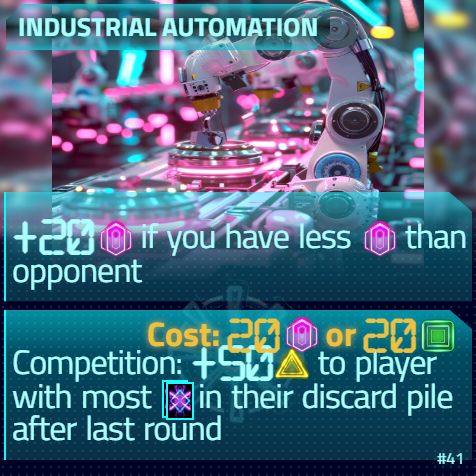
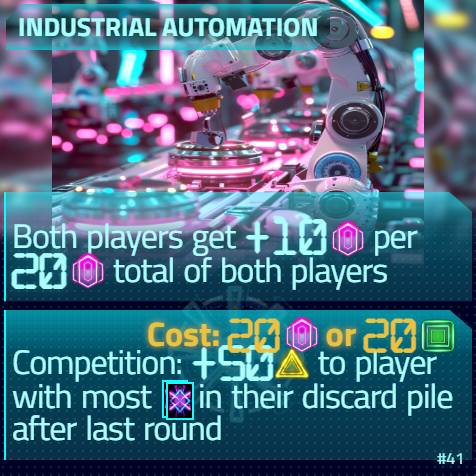
better seperation between free and cost action on each card, data/processing, early/late etc

Changed region(s): [[0.0, 0.4412, 1.0, 0.6176]]

diff --git a/src/components/SingularityCards2.js b/src/components/SingularityCards2.js
@@ -338,7 +338,7 @@ const initialCards =[
     "img": "https://cdn.midjourney.com/09392dd9-7fd8-4882-8904-f9854f98e0ed/0_0.webp",
     "title": "Swarm Intelligence",
     "action1": "Apply swarm solutions",
-    "details1": "Both players get +10 data per 20 data total of both players ",
+    "details1": "Copy any free action in your discard pile",
     "action2": "Release the Swarm",
     "details2": "+40 processing",
     "cost": "20 processing or 20 data",
@@ -395,8 +395,8 @@ const initialCards =[
     "action1": "Paus Ethically",
     "details1": "In 2 \nrounds, no score can be gained for either player",
     "action2": "Apply for Grant",
-    "details2": "Your next cost action played is free, as if all costs were paid ",
-    "cost": "30 data or 30 processing",
+    "details2": "Reveal a card from your hand and play its cost action",
+    "cost": "Card Cost",
     "id": 12,
     "type": "base"
   },
@@ -404,10 +404,10 @@ const initialCards =[
     "img": "https://cdn.midjourney.com/8d6d4227-7f21-4296-b0a6-30af2190686e/0_0.webp",
     "title": "Data Center",
     "action1": "Establish redundancy",
-    "details1": "Both players change 20 data closer to 40 data",
+    "details1": "+20 data or +20 processing",
     "action2": "Provide Storage",
-    "details2": "Reveal a card from your hand and play its cost action",
-    "cost": "Card Cost",
+    "details2": "Your next cost action played is free, as if all costs were paid ",
+    "cost": "30 data or 30 processing",
     "id": 15,
     "type": "base"
   },
@@ -426,7 +426,7 @@ const initialCards =[
     "img": "https://cdn.midjourney.com/7da199d0-a7e6-4710-a110-187fab80a489/0_1.webp",
     "title": "Neural Network",
     "action1": "Select optimizer algorithm",
-    "details1": "Copy any free action in your discard pile",
+    "details1": "Set your data or processing to 30",
     "action2": "Add deep layers",
     "details2": "Next round, both players also get the result of their opponents action ",
     "cost": "30 data or 30 processing",
@@ -525,7 +525,7 @@ const initialCards =[
     "img": "https://cdn.midjourney.com/2ee5ec12-694f-469d-bb7f-0f4e9fccfc57/0_1.webp",
     "title": "Industrial Automation",
     "action1": "Assemble Selectively and Comply",
-    "details1": "+20 data if you have less data than opponent \n",
+    "details1": "Both players get +10 data per 20 data total of both players ",
     "action2": "Pick and Place",
     "details2": "Competition: +50 score to player with most cards in their discard pile after last round",
     "cost": "20 data or 20 processing",
@@ -604,7 +604,7 @@ const initialCards =[
     "action1": "Block incoming traffic ",
     "details1": "+20 processing per card difference between discard piles",
     "action2": "Disable \"temporarily\"",
-    "details2": "+40 data",
+    "details2": "\n+40 data",
     "cost": "20 data or 20 processing",
     "id": "53",
     "type": "v3"
@@ -613,9 +613,9 @@ const initialCards =[
     "img": "/chatgpt-apps3/static/media/tree.57ad537fdab3bf9b9019.png",
     "title": "Decision Tree",
     "action1": "Plant root node",
-    "details1": "+20 data or +20 processing",
+    "details1": "Both players change 20 data closer to 40 data",
     "action2": "Prune leaf",
-    "details2": "Reveal 1 \ncard from hand and play the free action of that card 2\ntimes\n",
+    "details2": "Reveal 1 \ncard from hand and play the free action of that card 2\ntimes",
     "cost": "20 data or 20 processing",
     "id": "54",
     "type": "v3"
